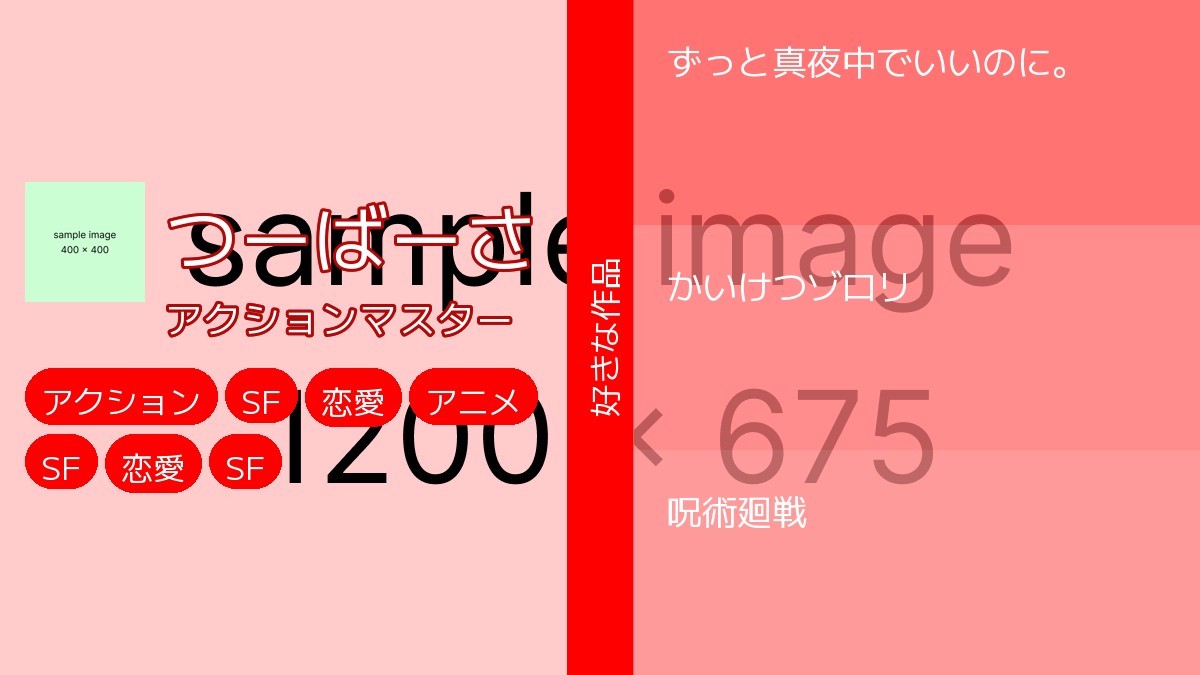
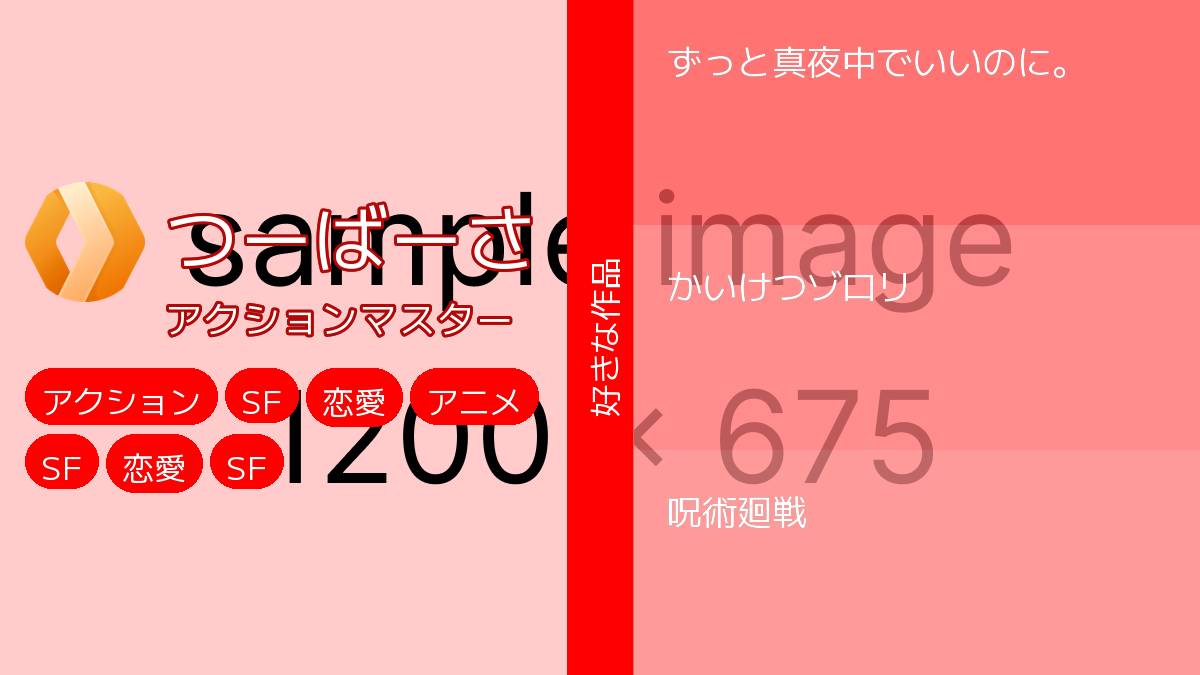
背景が投下されない不具合を修正

diff --git a/type1.py b/type1.py
@@ -158,9 +158,14 @@ def _draw_summary(
     )
 
     # 描画
-    icon_img = Image.open(icon).resize((icon_w, icon_h))
-    img.paste(icon_img, box=(int(icon_x), int(icon_y)))
-    # img.alpha_composite(icon_img, dest=(int(icon_x), int(icon_y)))
+    icon_img = Image.open(icon)
+    icon_img = cut_circle(icon_img)
+    icon_img = icon_img.resize((icon_w, icon_h))
+    img.alpha_composite(
+        icon_img,
+        dest=(int(icon_x), int(icon_y)),
+        source=(0, 0),
+    )
 
     draw_text(
         img,
@@ -313,7 +318,7 @@ def businesscard_type_1(
 if __name__ == "__main__":
     businesscard_type_1(
         "つーばーさ",
-        "./placeholder/400x400_green.png",
+        "/Users/tsubasa/Downloads/cloudflare-workers-logo-9BF89B51E2-seeklogo.com.png",
         "アクションマスター",
         [
             "アクション",
